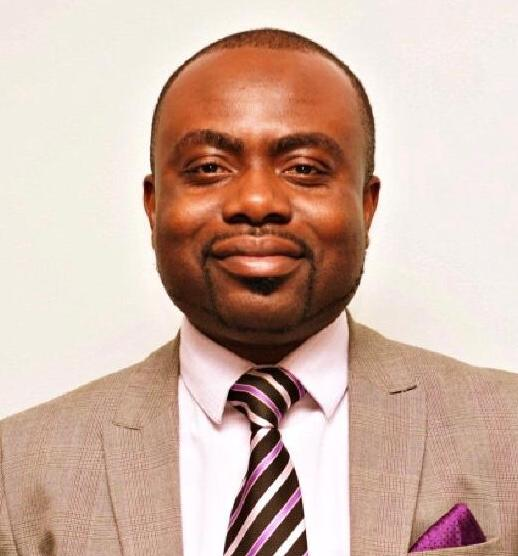
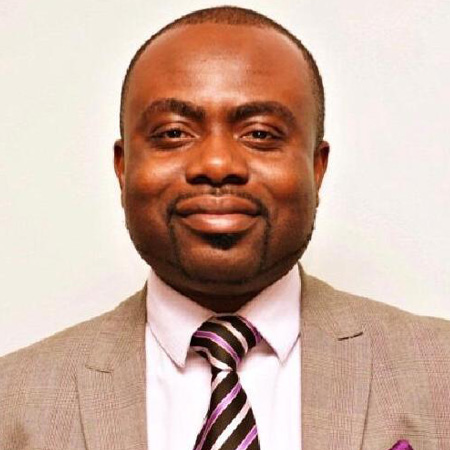
Fixed aspect ratio problems

diff --git a/index.html b/index.html
@@ -715,7 +715,7 @@
                         in the areas of data management, business analytics, predictive modeling, artificial intelligence, and
                         machine learning. Members of our team include professors, researchers (including students),
                         statisticians, and data scientists and engineers (including machine learning engineers), working in
-                        several areas including retail, finance, risk management, economics, health care, agriculture and many
+                        several areas such as retail, finance, risk management, economics, health care, agriculture and many
                         more.</p>
                   </div>
                 </div>
